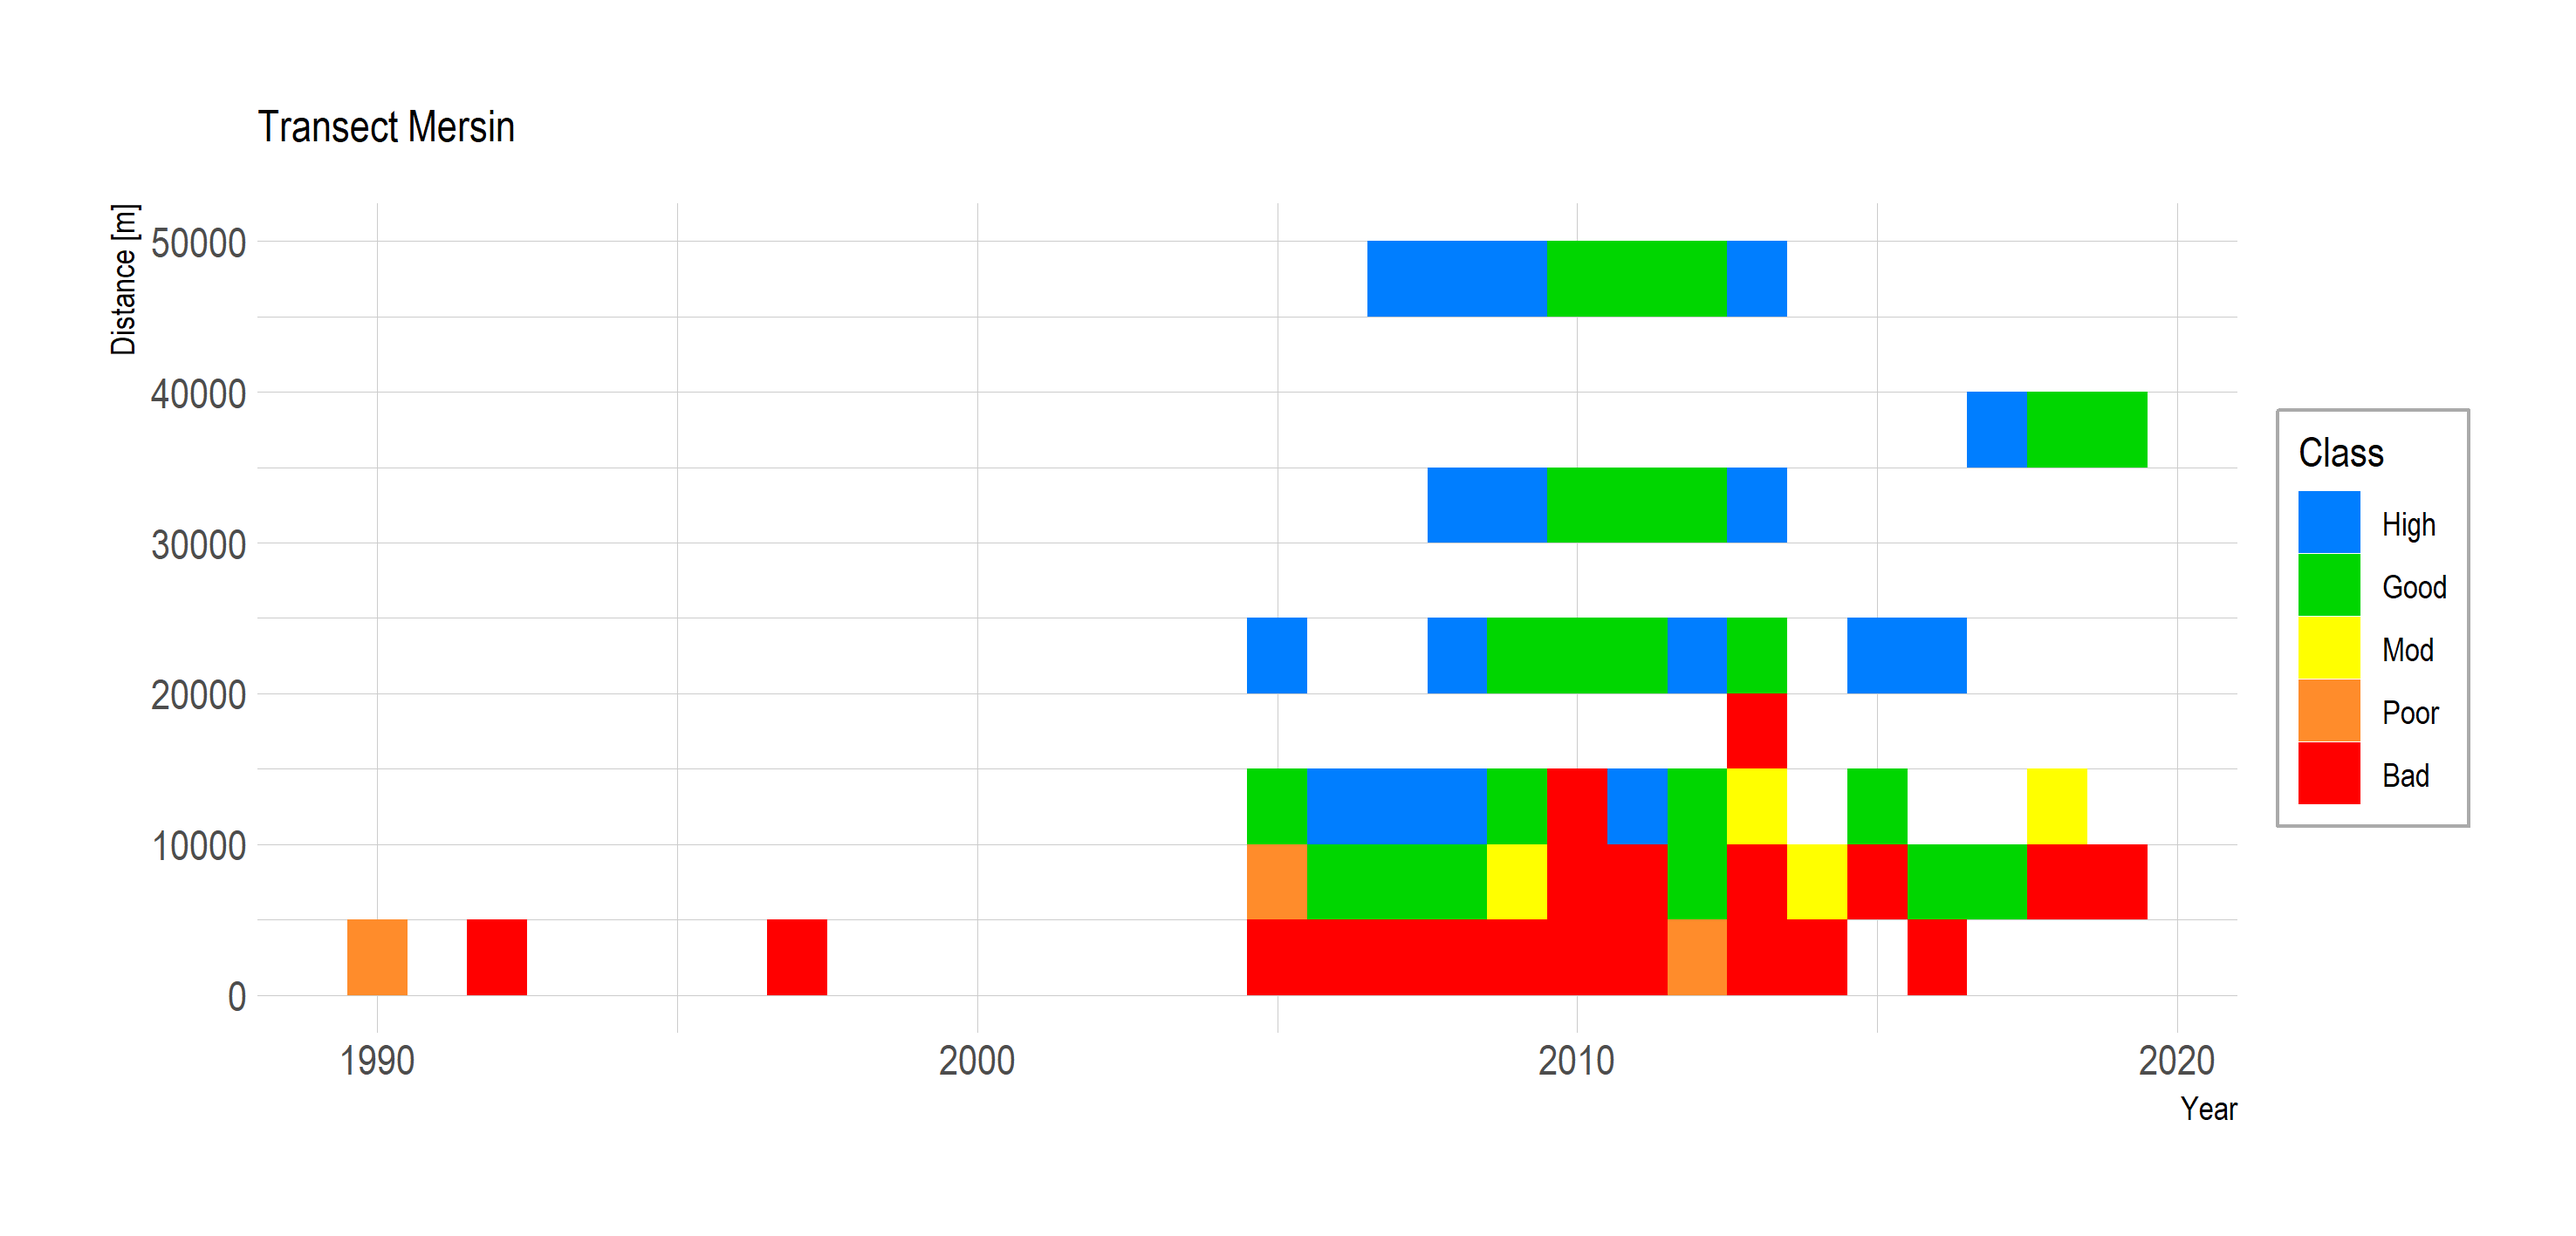
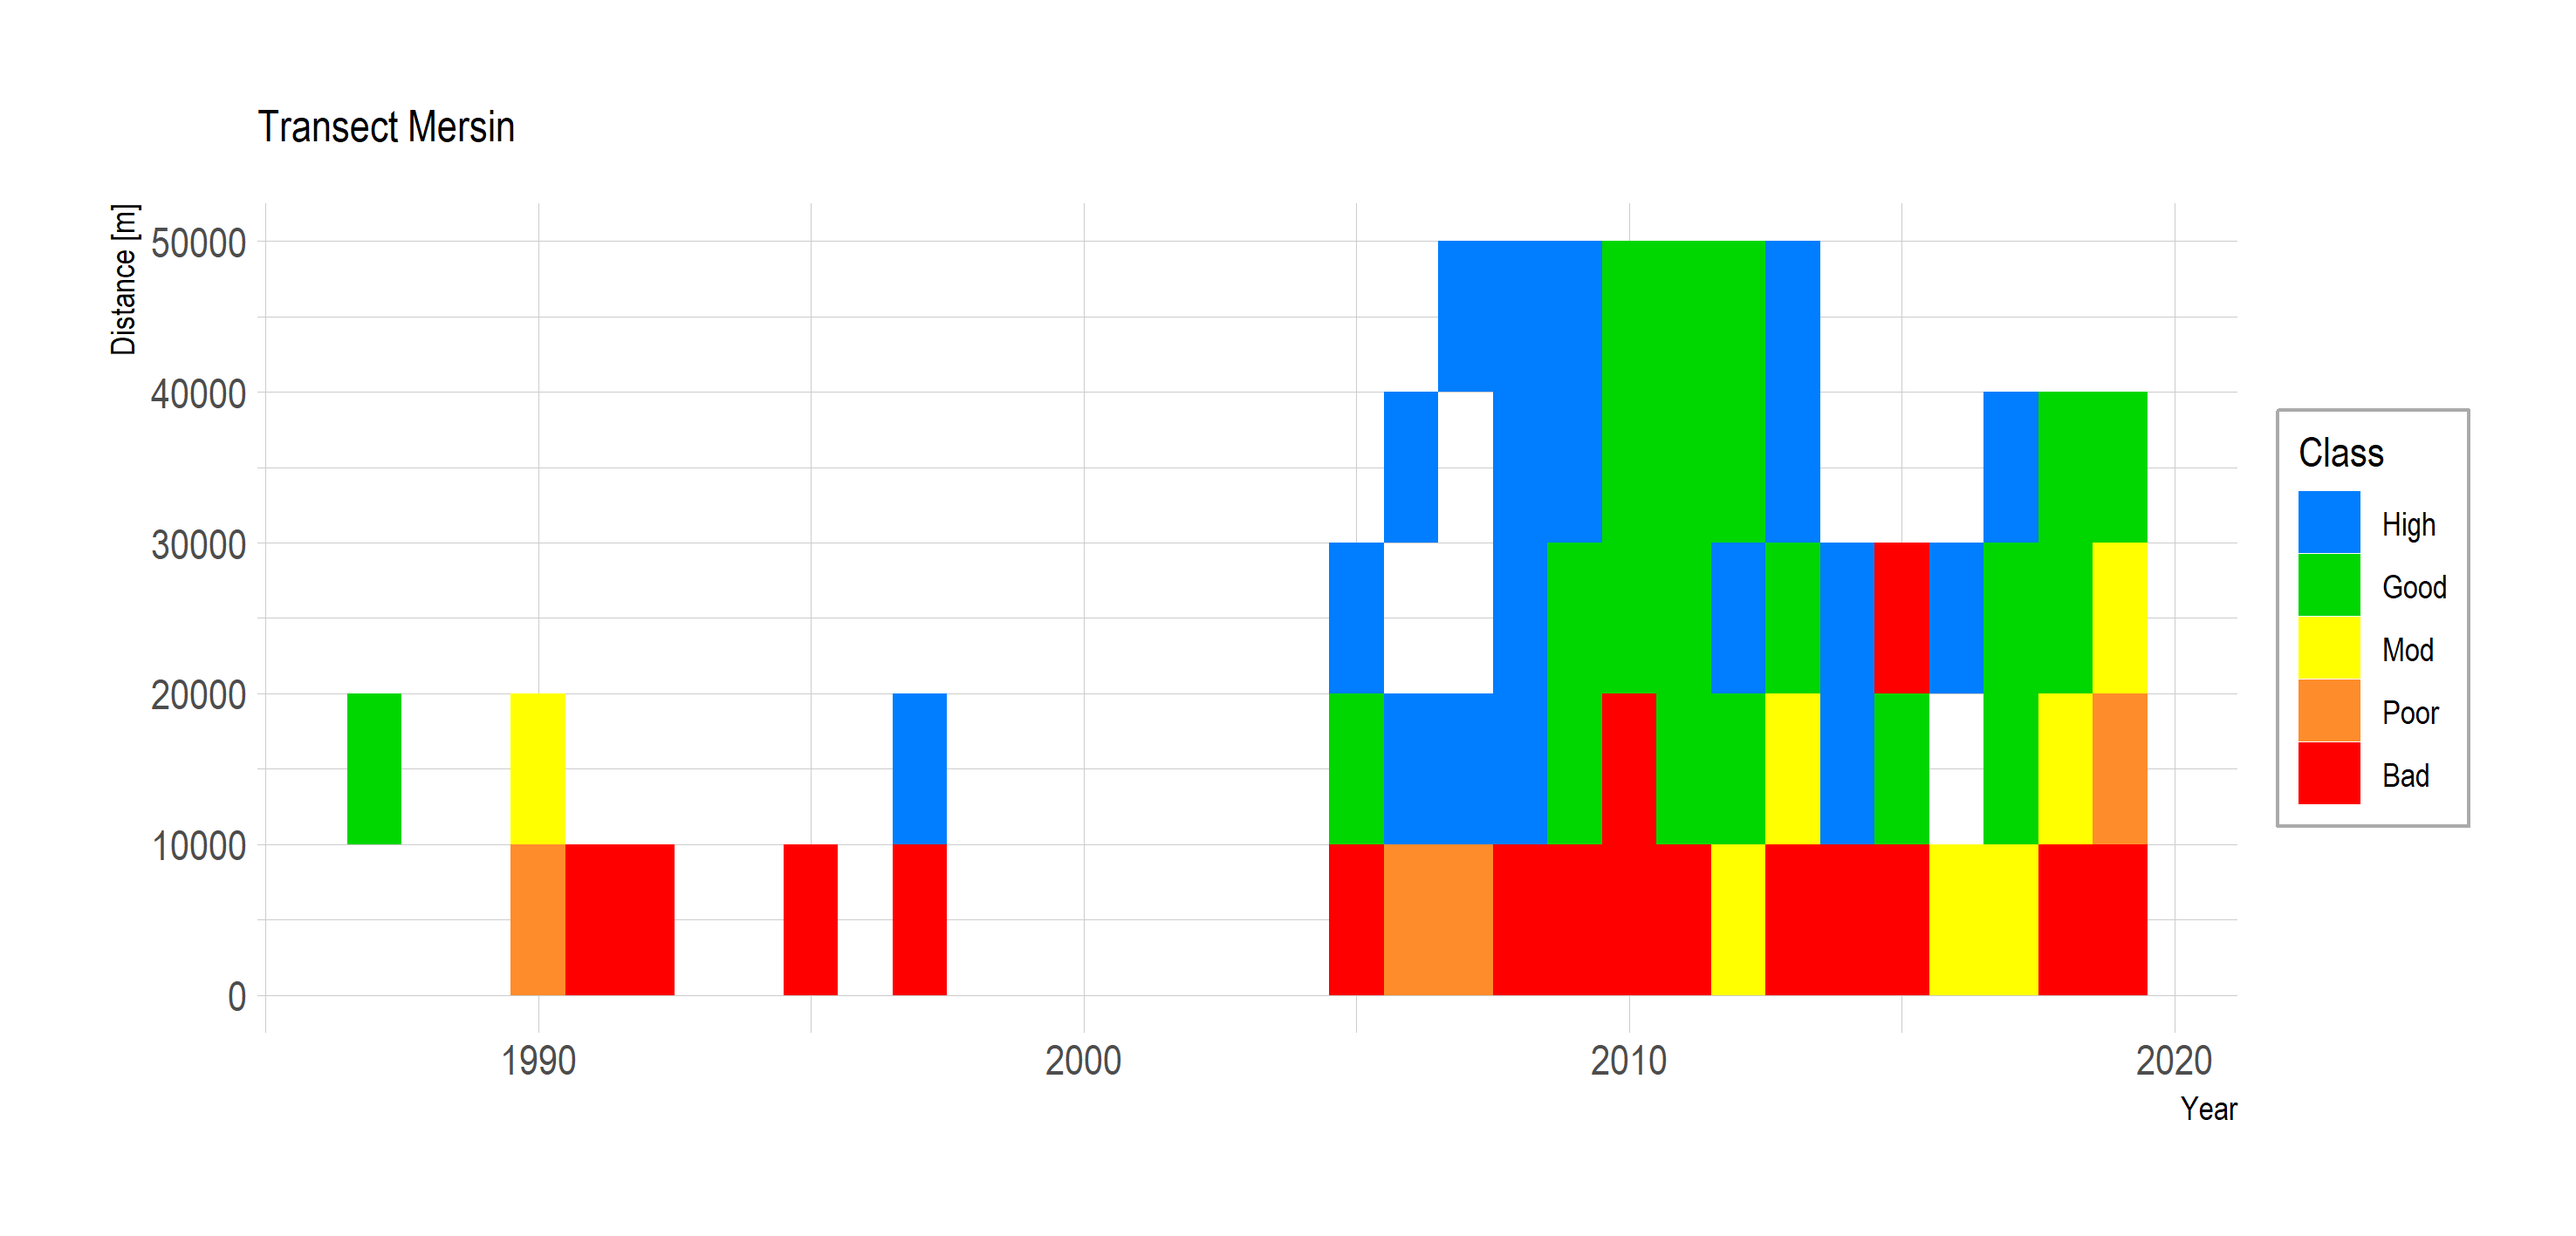
10 km assessment units

diff --git a/README.md b/README.md
@@ -22,12 +22,12 @@ The file  `data_from_Mersin_for_R.txt` is read into an R data frame using [Mersi
 Two transects are defined for making the HEAT calculations: *Mersin* and *Erdemli*. The code for plotting these transects is in the file [Mersin_plot_transects.R](/Mersin_plot_transects.R)
 
 #### 1. Mersin Transect 
-The first transect starts at Mersin (TM36 x=381962 y=4075951). The transect is divided into 5 km x 5 km grid squares and extends southwards from the coast at Mersin 50 km out into open waters, giving 10 assessment units within the transect.
+The first transect starts at Mersin (TM36 x=381962 y=4075951). The transect is divided into 10 km x 10 km grid squares and extends southwards from the coast at Mersin 50 km out into open waters, giving 10 assessment units within the transect.
 
 ![Plot of Mersin transect](png/transect_Mersin.png)
 
 #### 2. Erdemli Transect 
-The second transect starts at Erdemli. In ArcGIS, the *buffer* function is used to divide the waters into bands of distance from the coast at 5 km intervals, up to 40 km, giving 8 bands in total, each 5 km wide. The lateral start and end boundaries of the bands perpendicular to the coastline were chosen arbitrarily, intending only to enclose the area with relatively high density of observations close to Erdemli.
+The second transect starts at Erdemli. In ArcGIS, the *buffer* function is used to divide the waters into bands of distance from the coast at 10 km intervals, up to 40 km, giving 4 bands in total. The lateral start and end boundaries of the bands roughly perpendicular to the coastline are chosen arbitrarily, intending only to enclose the area with relatively high density of observations close to Erdemli.
 
 
 ![Plot of Erdemli transect](png/transect_Erdemli.png)
